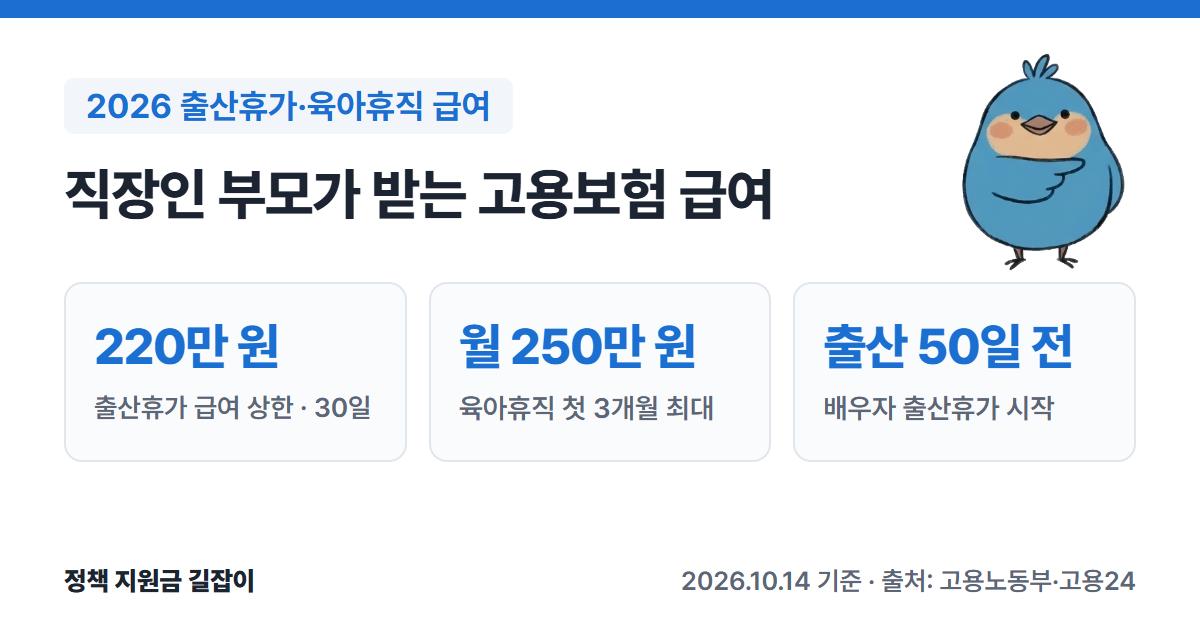
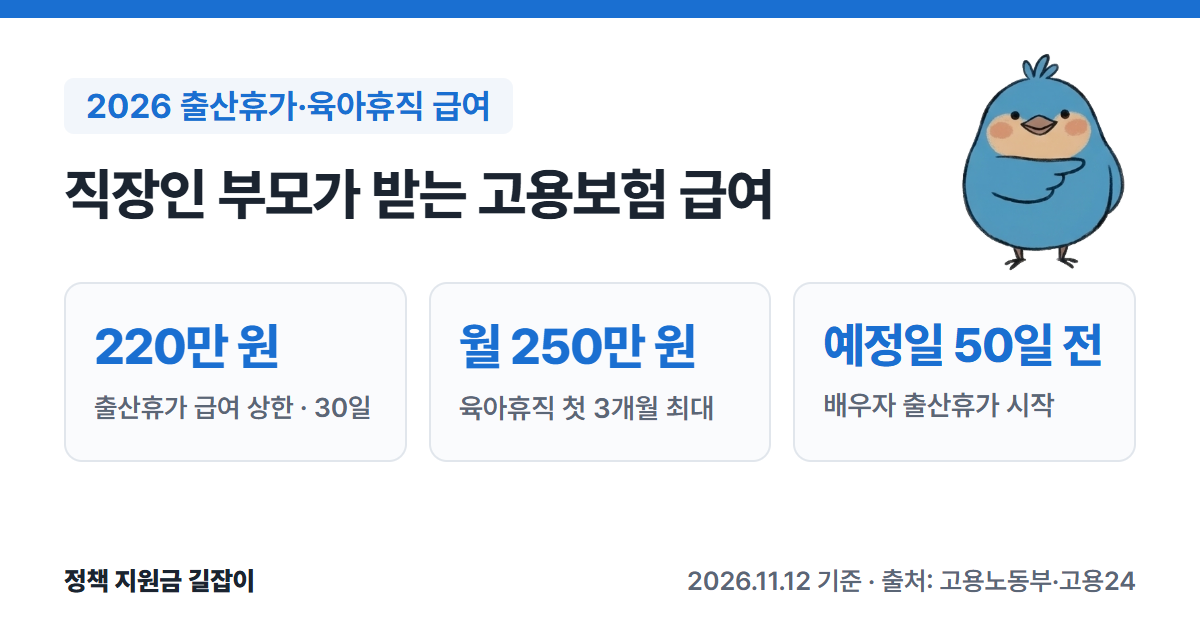
옛 글 최신화 4/16: 출산휴가·육아휴직 급여(6+6 5개월 400만 원 법령 확정, 단기 육아휴직 급여·조건 추가, 흐름도, 놓치기 쉬운 점, Fable 검토 ❌2·⚠11 반영)

Changed region(s): [[0.6783, 0.5127, 0.925, 0.6635], [0.555, 0.9048, 0.6783, 0.9349]]

diff --git a/_tools/flow/leave-pay-2026.html b/_tools/flow/leave-pay-2026.html
@@ -1,0 +1,15 @@
+<!doctype html><html><head><meta charset="utf-8"><title>flow</title></head><body><script>
+// 번호 = 본문 "1. 출산전후휴가 급여 > 어떻게 신청하나요?" 1~4. 승인 주체는 본문에 없어 4는 메모
+window.FLOW = { height: 1130, label: "2026 출산전후휴가 급여",
+  note: { main: "휴가 시작 1개월 뒤 ~ 끝난 날부터 12개월 이내 신청", sub: "30일 단위로 나눠서, 또는 휴가가 끝난 뒤 한꺼번에" },
+  applicant: { y0: 340, y1: 900, lines: ["(근로자)"] },
+  boxes: [
+    { y: 340, h: 200, lines: [["head", "휴가 신청 받음"], ["title", "회사"]] },
+    { y: 680, h: 220, main: 1, lines: [["head", "확인서 접수 · 급여 신청"], ["title", "고용24"]] } ],
+  arrows: [
+    { type: "in", y: 440, n: 1, label: "휴가 신청서", sub: ["의료기관의", "임신 확인서 함께"] },
+    { type: "v", y0: 540, y1: 680, n: 2, label: "휴가 확인서" },
+    { type: "in", y: 800, n: 3, label: "급여 신청" } ],
+  notesY: 990, notes: [[4, "승인되면 보통 평일 기준 14일 이내 입금"], "정부 지원은 30일 기준 최대 220만 원"],
+  foot: "2026.11.12 기준 · 출처: 고용24" };
+</script><script src="flow.js"></script></body></html>

diff --git a/_tools/card.html b/_tools/card.html
@@ -203,7 +203,7 @@ const cards = {
   "leave-pay-2026": {
     label: "2026 출산휴가·육아휴직 급여",
     title: "직장인 부모가 받는 고용보험 급여",
-    stats: [["220만 원", "출산휴가 급여 상한 · 30일"], ["월 250만 원", "육아휴직 첫 3개월 최대"], ["출산 50일 전", "배우자 출산휴가 시작"]],
+    stats: [["220만 원", "출산휴가 급여 상한 · 30일"], ["월 250만 원", "육아휴직 첫 3개월 최대"], ["예정일 50일 전", "배우자 출산휴가 시작"]],
     foot: "2026.11.12 기준 · 출처: 고용노동부·고용24"
   },
   "child-care-service-2026": {
@@ -271,7 +271,7 @@ const cards = {
     label: "2026 예비창업패키지",
     title: "사업자등록 전 창업자 사업화 자금",
     stats: [["평균 4천만 원", "사업화 자금"], ["0원", "자기부담금"], ["300명 내외", "2026년 선정 규모"]],
-    foot: "2026.10.14 기준 · 출처: 중소벤처기업부 공고"
+    foot: "2026.11.12 기준 · 출처: 중소벤처기업부 공고"
   },
   "early-startup-package-2026": {
     expired: "2026년 모집",

diff --git a/_posts/2026-10-14-leave-pay-2026.md b/_posts/2026-10-14-leave-pay-2026.md
@@ -1,7 +1,7 @@
 ---
 layout: post
 title: "2026 출산휴가·육아휴직 급여 총정리: 얼마나, 언제까지 받을까 (배우자 출산휴가 포함)"
-description: "출산전후휴가 급여 상한이 30일 기준 220만 원으로 올랐어요. 육아휴직 급여는 첫 3개월 월 최대 250만 원, 부모가 함께 쓰면 첫 6개월 최대 450만 원까지 올라가요."
+description: "출산전후휴가 급여 상한은 30일 기준 220만 원이에요. 육아휴직 급여는 첫 3개월 월 최대 250만 원이고, 부모가 함께 쓰면 6개월째에는 월 최대 450만 원까지 올라가요."
 date: 2026-10-14 12:00:00 +0900
 topic: 출산·육아
 who: ["근로자", "고용보험 180일"]
@@ -13,12 +13,12 @@ apply_name: "고용24"
 직장인 부모가 고용보험에서 받는 **출산전후휴가 급여, 배우자 출산휴가 급여, 육아휴직 급여**를 정리했어요.
 2026년 9월 18일부터 바뀐 **배우자 지원 제도**까지 고용노동부 공식 자료로 확인했어요.
 
-![2026 출산휴가·육아휴직 급여 요약: 출산휴가 급여 상한 30일 220만 원, 육아휴직 첫 3개월 월 최대 250만 원, 배우자 출산휴가 출산 50일 전부터](/assets/images/cards/leave-pay-2026.png){: .summary-card}
+![2026 출산휴가·육아휴직 급여 요약: 출산휴가 급여 상한 30일 220만 원, 육아휴직 첫 3개월 월 최대 250만 원, 배우자 출산휴가 출산예정일 50일 전부터 시작](/assets/images/cards/leave-pay-2026.png){: .summary-card}
 
 > 💡 **핵심 요약**
-> - 출산전후휴가 급여 상한이 **30일 기준 220만 원**으로 올랐어요. (출처①)
-> - 육아휴직 급여는 첫 3개월 **월 최대 250만 원**, 부모가 함께 쓰면 첫 6개월 **최대 450만 원**까지 올라가요. (출처④⑤)
-> - 2026년 9월 18일부터 배우자 출산휴가를 **출산 50일 전부터** 쓸 수 있어요. (출처③)
+> - 출산전후휴가 급여 상한은 **30일 기준 220만 원**이에요. (출처①)
+> - 육아휴직 급여는 첫 3개월 **월 최대 250만 원**이고, 부모가 함께 쓰면 6개월째에는 **월 최대 450만 원**까지 올라가요. (출처④⑤⑦)
+> - 2026년 9월 18일부터 배우자 출산휴가를 **출산예정일 50일 전부터** 쓸 수 있어요. (출처③)
 
 > **출처 표시 방법**: 본문의 (출처①) 같은 표시는 글 끝 출처 목록의 번호와 같아요.
 > 이 글은 **고용보험에 가입한 근로자** 기준이에요. 정부가 주는 출산지원금(첫만남이용권, 부모급여 등)은 [2026 출산지원금 총정리]({% post_url 2026-10-14-birth-support-2026 %})에서 확인하세요.
@@ -37,7 +37,7 @@ apply_name: "고용24"
 |---|---|
 | 출산전후휴가 급여 | 통상임금, **30일 기준 최대 220만 원**<br>기간: 90일 (다태아 120일)<br>대상: 출산한 여성 근로자 |
 | 배우자 출산휴가 급여 | 통상임금, **20일 최대 168만 4,210원**<br>기간: 20일<br>대상: 우선지원대상기업 소속 근로자 |
-| 육아휴직 급여 | 첫 3개월 **월 최대 250만 원**<br>기간: 자녀 1명당 부모 각각 1년(부모 모두 3개월 이상 쓰거나 한부모 등은 최대 1년 6개월)<br>대상: 육아휴직을 30일 이상 쓴 근로자 |
+| 육아휴직 급여 | 첫 3개월 **월 최대 250만 원**<br>기간: 자녀 1명당 부모 각각 1년(부모 모두 3개월 이상 쓰거나 한부모 등은 최대 1년 6개월)<br>대상: 육아휴직을 30일 이상(단기 육아휴직은 1주·2주) 쓴 근로자 |
 
 세 급여 모두 **고용보험 피보험 단위기간이 합산 180일 이상**이어야 받을 수 있어요. (출처①②④)
 
@@ -91,6 +91,8 @@ apply_name: "고용24"
 4. 승인되면 보통 평일 기준 **14일 이내**에 입금돼요.
 
 (출처①)
+
+![신청 흐름: 1 근로자가 회사에 휴가 신청서와 의료기관의 임신 확인서를 냄, 2 회사가 고용24에 출산전후휴가 확인서를 냄, 3 근로자가 고용24에서 급여 신청, 4 승인되면 보통 평일 기준 14일 이내 입금. 신청은 휴가 시작 1개월 뒤부터 끝난 날로부터 12개월 이내, 30일 단위로 나눠서 또는 휴가가 끝난 뒤 한꺼번에. 정부 지원은 30일 기준 최대 220만 원](/assets/images/flow/leave-pay-2026.png){: .flow-chart}
 
 ---
 
@@ -148,13 +150,13 @@ apply_name: "고용24"
 
 다음 조건을 **모두** 충족해야 해요. (출처④)
 
-1. 육아휴직을 **30일 이상** 부여받았을 것 (출산전후휴가와 겹치는 기간 제외)
+1. 육아휴직을 **30일 이상** 부여받았을 것 (출산전후휴가와 겹치는 기간 제외). 단기 육아휴직은 **7일 또는 14일**만 써도 그 기간만으로 급여를 신청할 수 있어요. (출처⑧)
 2. 육아휴직 시작일 전까지 **고용보험 피보험 단위기간이 통산 180일 이상**일 것
 
 ### 휴직은 얼마나 쓸 수 있나요?
 
 - 자녀 1명당 **부모 각각 1년**이고, **부모가 모두 3개월 이상** 쓰면 각각 **최대 1년 6개월**까지 쓸 수 있어요. 한부모나 중증장애아동의 부모도 최대 1년 6개월이에요. (출처④)
-- 2026년 9월 18일부터는 임신 중인 배우자에게 **유산·조산 위험**이 있으면 남성 근로자가 **자녀가 태어나기 전에도** 육아휴직을 쓸 수 있어요. 이 기간은 전체 육아휴직 기간에서 빠지고, 분할 사용 횟수에는 들어가지 않아요. (출처③)
+- 2026년 9월 18일부터는 임신 중인 배우자에게 **유산·조산 위험**이 있으면 남성 근로자가 **자녀가 태어나기 전에도** 육아휴직을 쓸 수 있어요. 이 기간만큼 전체 육아휴직 기간(1년 또는 1년 6개월)이 줄어들고, 분할 사용 횟수에는 들어가지 않아요. (출처③)
 
 ### 얼마나 받나요? (일반)
 
@@ -164,7 +166,7 @@ apply_name: "고용24"
 | 4~6개월 | 통상임금 100% | **200만 원** |
 | 7개월 이후 | 통상임금 80% | **160만 원** |
 
-(출처④⑤)
+(출처④⑤⑦)
 
 예전에는 급여 일부를 복직 후에 나눠 줬지만(사후지급), 지금은 **휴직 기간 중에 전액**을 받아요. (출처⑤)
 
@@ -178,12 +180,12 @@ apply_name: "고용24"
 | 2개월 | **250만 원** |
 | 3개월 | **300만 원** |
 | 4개월 | **350만 원** |
-| 5개월 | **400만 원** (아래 주의 참고) |
+| 5개월 | **400만 원** |
 | 6개월 | **450만 원** |
 
-(출처⑤)
+(출처⑤⑦)
 
-> ⚠ **5개월째 상한은 공식 자료끼리 달라요.** 고용노동부 민원 답변(출처⑤)은 400만 원, 고용노동부 일생활균형 누리집(출처④)은 350만 원으로 적혀 있어요. 정확한 금액은 고용센터나 고용노동부 고객상담센터(1350)에 확인하세요.
+> 5개월째 상한은 「고용보험법 시행령」 제95조의3에 **월 400만 원**으로 정해져 있어요. 고용노동부 일생활균형 누리집(출처④)에는 350만 원으로 적혀 있지만, 법령(출처⑦)과 고용노동부 민원 답변(출처⑤)을 따랐어요. 하한은 부모 각각 **월 70만 원**이에요. (출처⑦)
 
 ### 한부모라면
 
@@ -199,26 +201,47 @@ apply_name: "고용24"
 
 ## 4. 2026년 하반기에 바뀐 것 정리
 
-「남녀고용평등과 일·가정 양립 지원에 관한 법률 시행령」이 개정되어 **2026년 9월 18일**부터 시행됐어요. (출처⑥)
+관련 법령이 개정되어 **2026년 8월 20일**과 **9월 18일**에 나눠 시행됐어요. (출처⑥)
 
 | 바뀐 것 | 내용 |
 |---|---|
 | 배우자 출산전후휴가 | 출산예정일 50일 전부터 사용 가능 (출처③⑥) |
 | 배우자 유산·사산휴가 | 5일 신설, 최초 3일 유급 (출처③⑥) |
 | 배우자 임신 중 육아휴직 | 유산·조산 위험이 있으면 출생 전에도 사용 (출처③⑥) |
-| 단기 육아휴직 | 자녀의 방학·질병 등을 이유로 **1주 또는 2주** 단위 육아휴직 (출처⑥) |
+| 단기 육아휴직 | 2026.8.20.부터. 자녀의 방학·입원 등을 이유로 **1주 또는 2주** 육아휴직 (출처⑥⑧) |
 
-> 단기 육아휴직의 급여와 세부 사용 조건은 이 글의 출처 자료에서 확인하지 못했어요. 고용노동부 고객상담센터(1350)에 문의하세요.
+### 단기 육아휴직 자세히
+
+| 항목 | 내용 |
+|---|---|
+| 대상 | **만 8세 이하 또는 초등학교 2학년 이하** 자녀가 있는 근로자 |
+| 사유 | 어린이집·유치원·학교 휴업·휴원, 방학, 자녀 입원, 감염병 격리 |
+| 기간 | 자녀별로 **연 1회**, 1주 또는 2주 (전체 육아휴직 기간에서 빠짐) |
+| 회사 신청 | 시작 **30일 전까지** (휴원·입원·격리 같은 긴급한 사유는 시작일까지) |
+| 급여 | 육아휴직 급여 월 금액을 쉰 날수만큼 나눠 계산(일할계산) |
+
+(출처⑧)
 
 ---
 
-## 5. 자주 묻는 질문
+## 5. 놓치기 쉬운 점
+
+- **회사가 확인서를 내도 출산전후휴가 급여 신청은 따로 해야 해요.** 근로자가 고용24에서 신청해요. 다만 회사가 통상임금 전액을 먼저 주고 대신 신청하는 경우(사업주 대위신청)와 대규모기업의 최초 60일은 따로 신청하지 않아요. (출처①)
+- **급여 신청은 끝난 날로부터 12개월 이내예요.** 출산전후휴가·배우자 출산휴가·육아휴직 급여 모두 이 기간 안에 신청해야 해요. (출처①②④)
+- **일반 육아휴직은 30일 이상 써야 급여가 나와요.** 출산전후휴가와 겹치는 기간은 빼고 30일 이상이어야 해요. 단기 육아휴직(1주·2주)은 그 기간만으로도 신청할 수 있어요. (출처④⑧)
+- **배우자 출산휴가 급여는 우선지원대상기업만 받아요.** 대규모기업 근로자는 정부 급여 대상이 아니에요. (출처②)
+
+이런 경우는 고용노동부 고객상담센터 **1350**에 먼저 물어보세요: 휴가 중 계약이 끝나는 기간제 근로자, 12개월 안에 신청하지 못한 사정이 있는 경우.
+
+---
+
+## 6. 자주 묻는 질문
 
 **Q. 큰 회사에 다니면 출산휴가 첫 60일은 정부 급여가 없나요?**
 대규모기업은 최초 60일을 **회사가 통상임금 전액**으로 줘요. 마지막 30일은 기업 규모와 관계없이 정부가 30일 기준 최대 220만 원을 줘요. (출처①)
 
 **Q. 출산휴가 급여를 깜빡하고 신청 안 했어요.**
-휴가가 끝난 날로부터 **12개월 이내**라면 신청할 수 있어요. 이 기간이 지나면 받을 수 없어요. (출처①)
+휴가가 끝난 날로부터 **12개월 이내**라면 신청할 수 있어요. 기간이 지났다면 1350에 사정을 물어보세요. (출처①)
 
 **Q. 휴가 중에 계약 기간이 끝나는 기간제 근로자는요?**
 휴가 중 계약이 끝나면 남은 기간에 대해 정부가 30일 기준 220만 원 한도로 줘요. (출처①)
@@ -239,12 +262,14 @@ apply_name: "고용24"
 
 ## 출처
 
-1. [고용24 - 출산전후휴가와 출산전후휴가급여 (유산·사산휴가 포함)](https://m.work24.go.kr/cm/c/f/1100/selecSystInfo.do?currentPageNo=1&recordCountPerPage=9&upprSystClId=&systClId=SC00000246&systId=SI00000406) - 최종 수정일 2026.2.5. (확인일: 2026-10-14)
-2. [정부24 - 배우자 출산휴가급여 신청 방법](https://www.gov.kr/portal/rcvfvrSvc/dtlEx/999000000004) - 소관: 고용노동부, 최종 수정일 2026.5.11. (확인일: 2026-10-14)
-3. [고용노동부 보도자료 - 임신부터 출산까지, 남편이 함께한다 「배우자 지원 3종 세트」 9.18.부터 본격 시행 (2026.9.17.)](https://www.moel.go.kr/news/enews/report/enewsView.do?news_seq=19964) (확인일: 2026-10-14)
-4. [고용노동부 일생활균형 - 육아휴직 급여](https://www.worklife.kr/website_renew/index/workerSupport/parental_leave_benefit.asp) (확인일: 2026-10-14)
-5. [고용노동부 민원 답변 - 육아휴직급여 금액 알아보기](https://www.moel.go.kr/minwon/fastcounsel/fastcounselView.do?inetDcssMngId=202410151243158000916) (확인일: 2026-10-14)
-6. [국가법령정보센터 - 남녀고용평등과 일·가정 양립 지원에 관한 법률 시행령 개정이유 (대통령령 제36589호, 2026.9.18. 시행)](https://www.law.go.kr/LSW/lsRvsRsnListP.do?lsId=003140&chrClsCd=010102) (확인일: 2026-10-14)
+1. [고용24 - 출산전후휴가와 출산전후휴가급여 (유산·사산휴가 포함)](https://m.work24.go.kr/cm/c/f/1100/selecSystInfo.do?currentPageNo=1&recordCountPerPage=9&upprSystClId=&systClId=SC00000246&systId=SI00000406) - 최종 수정일 2026.2.5. (확인일: 2026-11-12)
+2. [정부24 - 배우자 출산휴가급여 신청 방법](https://www.gov.kr/portal/rcvfvrSvc/dtlEx/999000000004) - 소관: 고용노동부, 최종 수정일 2026.5.11. (확인일: 2026-11-12)
+3. [고용노동부 보도자료 - 임신부터 출산까지, 남편이 함께한다 「배우자 지원 3종 세트」 9.18.부터 본격 시행 (2026.9.17.)](https://www.moel.go.kr/news/enews/report/enewsView.do?news_seq=19964) (확인일: 2026-11-12)
+4. [고용노동부 일생활균형 - 육아휴직 급여](https://www.worklife.kr/website_renew/index/workerSupport/parental_leave_benefit.asp) (확인일: 2026-11-12)
+5. [고용노동부 민원 답변 - 육아휴직급여 금액 알아보기](https://www.moel.go.kr/minwon/fastcounsel/fastcounselView.do?inetDcssMngId=202410151243158000916) (확인일: 2026-11-12)
+6. [국가법령정보센터 - 남녀고용평등과 일·가정 양립 지원에 관한 법률 시행령 개정이유 (대통령령 제36589호, 2026.9.18. 시행)](https://www.law.go.kr/LSW/lsRvsRsnListP.do?lsId=003140&chrClsCd=010102) (확인일: 2026-11-12)
+7. 국가법령정보센터 - 고용보험법 시행령 [제95조](https://www.law.go.kr/법령/고용보험법시행령/제95조)·[제95조의3](https://www.law.go.kr/법령/고용보험법시행령/제95조의3) (2026.9.18. 시행본) (확인일: 2026-11-12)
+8. [고용노동부 일생활균형 - 단기 육아휴직](https://www.worklife.kr/website_renew/index/workerSupport/reduced_hours_short_term.asp) (확인일: 2026-11-12)
 
-> 이 글은 **2026년 10월 14일** 기준이에요. 상한액은 매년 고용노동부장관이 고시하니, 신청 전에 고용24나 고용센터에서 꼭 확인하세요.
+> 이 글은 **2026년 11월 12일** 기준이에요. 상한액은 매년 고용노동부장관이 고시하니, 신청 전에 고용24나 고용센터에서 꼭 확인하세요.
 > 문의: 고용노동부 고객상담센터 **1350**
